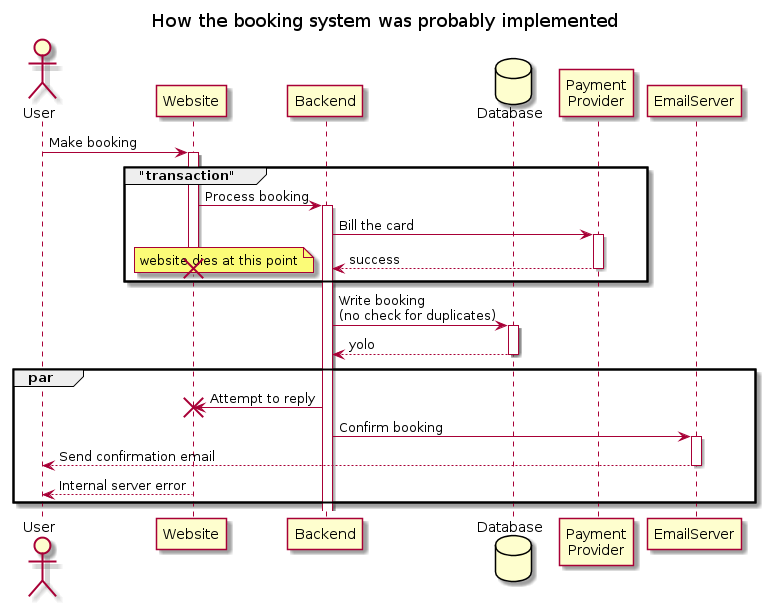
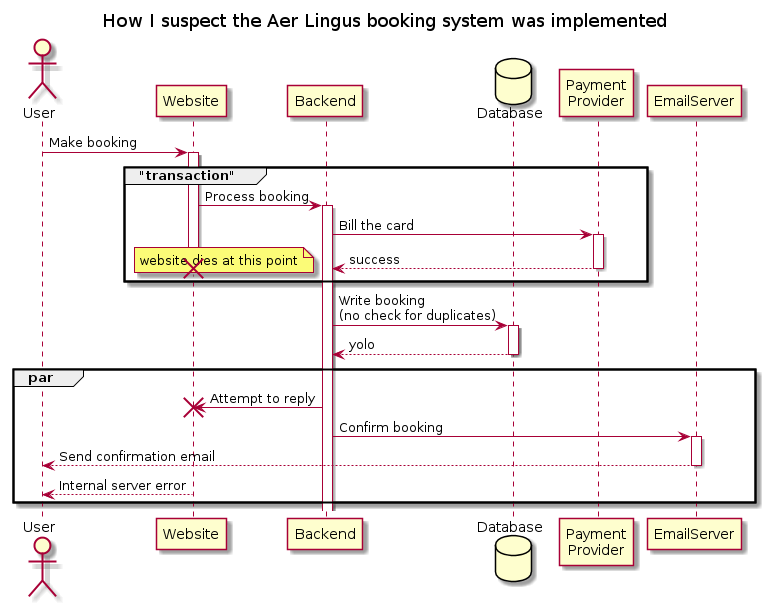
latest

Changed region(s): [[0.1203, 0.0297, 0.8719, 0.0594]]

diff --git a/readme.md b/readme.md
@@ -11,18 +11,28 @@ Bryan Hunt (ESL)
 
 ---
 
-* Slinging code for 20 years [^list] 
-* Writing Elixir for about 5 years now 
-* Elixir is my favorite language ever
-* Elixir doesn't just make the hard things possible 
-* Elixir makes the hard things easy
-* Elixir lacks drama 
-* Elixir is boring
+* Slinging code for 20 years [^brag_list] 
+* Writing Elixir for about 5 years now
 
-[^list]: Perl, VB, C, C++, PHP, Python, Java, Scala, Javascript, Actionscript, Erlang, Shell, Ansible, Zsh, AWK, Sed, etc, etc .... yawn
+
+[^brag_list]: Perl, VB, C, C++, PHP, Python, Java, Scala, Javascript, Actionscript, Erlang, Shell, Ansible, Zsh, AWK, Sed, etc, 😴
 
 ![fit](images/esl-background.png)
 
+---
+
+# Why I like Elixir
+
+* Elixir has lovely syntax and UX  💃
+* Elixir makes hard things easy ✅ 
+* Elixir also makes easy things easy ✅ 
+* Elixir lacks drama ✅  
+* Elixir is stable/boring ✅
+* Elixir doesn't just crash 〽 [^stg] and burn 🔥
+
+![fit](images/esl-background.png)
+
+[^stg]: Unlike the £
 ^ elixir is boring
 
 ---
@@ -30,12 +40,11 @@ Bryan Hunt (ESL)
 ![](images/Aer_Lingus_EI-DUB_A330.jpg)
 
 
-# Talk overview
+# Talk objectives
 
-
-1. To rant about Aer Lingus in front of a live audience...
-2. A superficial analysis of what may have gone wrong.
-3. How to build better functionality using Elixir and Postgres [^*]
+1. Platform to rant about Aer Lingus double charging me.
+2. An analyis of why their system double charged me.
+3. Some techniques which we could use to build a more reliable system.
 
 [^*]: Or something resembling Postgres...
 
@@ -85,37 +94,83 @@ Receive a booking confirmation at 8:03 PM - the flight is booked !
 # Actually, fail !
 
 * Another booking confirmation, this time at 8:15 PM..
-* Check the bank account - charged twice.
+* Check my bank account - billed twice.
+* Activate the online chat - it times out 
+* Call the website helpdesk... no answer.. 
+* Maybe I'm not the only one having issues
 
 ---
 
-* Contact the online chat.. leave the window open for 40 minutes, nobody answers.
-* Call the website helpdesk... no answer.. maybe I'm not the only one having issues.
+![](images/Aer_Lingus_EI-DUB_A330.jpg)
 
-> Website Helpdesk
-> 0333 006 6920
-> Mon-Fri 08:00-06:00
-> Sat-Sun & Bank Holidays: 09:00-06:00     
-> 
-> Reservations
-> 0333 004 5000
-> Mon-Fri 08:00-6:00
-> Sat-Sun & Bank Holidays: 09:00-06:00     
+# Good luck with that ! 
 
+[.column]
+
+> Website Helpdesk 
+> 0333 006 6920 
+> Mon-Fri 
+> 08:00-06:00 
+> Sat-Sun & Bank Holidays: 
+> 09:00-06:00     
+
+[.column]
+
+> Reservations 
+> 0333 004 5000 
+> Mon-Fri: 
+> 08:00-6:00 
+> Sat-Sun & Bank Holidays: 
+> 09:00-06:00
+
+ 
 ---
 
 # Aftermath 
 
-* Sporadically harass Aer Lingus on social media/Linkedin
-* Ponder how such a thing is possible
-* If I had to do implement something similar would Elixir make it any easier?
+* Whine about Aer Lingus on social media/Linkedin
+* Ponder what went wrong 
+* Could I implement a better system in Elixir? [^spoilers]
 
-----
+![](images/Aer_Lingus_EI-DUB_A330.jpg)
 
+[^spoilers]: HTTP header leakage reveals it's running on Java/JBOSS - of course we can.. 
+
+---
+
+# What could we improve? 
+
+1. Error detection 
+2. Fault tolerance
+3. Session storage 
+5. Prevent double billing 
+
+^Error detection - the customer shouldn't have to chase a system error.  
+^Tolerate failure - improve reliability of network calls (database/microservices).  
+^Session storage - Handle more customers (sessions) at once with fewer physical resources.
+^Session storage - Allow a user session to live longer (5 minute timeout are too short).
+^Prevent double billing - Prevent duplicate writes to a relational database.
+^Prevent double billing - Prevent duplicate writes to anything.
+
+---
 
 ![fit original](out/puml/how-booking-should-work/overview.png)
 
-----
+---
+
+
+![fit original](out/puml/how-booking-was-probably-implemented/overview.png)
+
+
+---
+
+
+
+---
+
+![fit original](out/puml/how-booking-should-work/overview.png)
+
+---
 
 
 ![fit original](out/puml/how-booking-was-probably-implemented/overview.png)
@@ -125,18 +180,18 @@ Receive a booking confirmation at 8:03 PM - the flight is booked !
 
 # So how can we do better? 
 
-1. Capture all crashes and do something useful with them
-2. Prevent duplicate billing
-3. Gracefully handle (temporary) resource unavailability
-3. Reduce RAM and make horizontal scaling possible by not storing user sessions in RAM
-4. Reduce crashes in general with OTP 
+1. Capture systemwide crash info for later analysis
+2. Don't charge customers twice 
+3. Survive (temporary) resource unavailability
+3. Mitigate the scaling costs of user session managment
+4. Generally reduce crashes with OTP 
 5. Use a distributed/replicated database
 6. Make the customers happy 
-8. `$$$` Profit `$$$`
+8. Profit
 
 ---
 
-# Capture all crashes and do something useful with them
+# Capture systemwide crash info for later analysis
 
 * Add [bugsnag-elixir](https://github.com/jarednorman/bugsnag-elixir) as a dependency and sign up for the bugsnag service.
 * Connect [WombatOAM](https://www.erlang-solutions.com/products/wombatoam.html) to the node [^disclosure]
@@ -146,11 +201,10 @@ Receive a booking confirmation at 8:03 PM - the flight is booked !
 
 ---
 
-# Capture crashes across all BEAM processes
-
+Implementation
 
 ```elixir
-defmodule Global.Logger do
+defmodule Global.Handler do
   require Logger
   @behaviour :gen_event
 
@@ -163,6 +217,7 @@ defmodule Global.Logger do
   def handle_event({:error_report, gl, {_pid, _type, [message | _]}}, state)
       when is_list(message) and node(gl) == node() do
       Logger.error("Global error handler: #{inspect(message, pretty: true)}")
+      #Or maybe use the new (elixir 1.10.1) structured logger?
     {:ok, state}
   end
 
@@ -173,28 +228,30 @@ end
 
 ```
 
+^ Rather than `Logger.error` - do something useful? Your choice.
+
 ----
 
-# Installing/Running the error handler
+## Installing/Running the error handler
 
+Add it :
 
 ```
-:error_logger.add_report_handler(Global.Logger)
+:error_logger.add_report_handler(Global.Handler)
 ```
+
+Trap exit systems (don't kill iex):
 
 ```
 Process.flag(:trap_exit,true)
 ```
 
+Start a process that will raise/terminate:
+
 ```
 Task.async(fn -> raise "hell" end)
 ```
 
-Rather than `Logger.error` - do something useful.
-
-Or maybe just send it to the console and let a k8s event handler pick it up.
-
-Your choice.
 
 ![autoplay right fit loop](video/global.error.handler.mp4)
 
